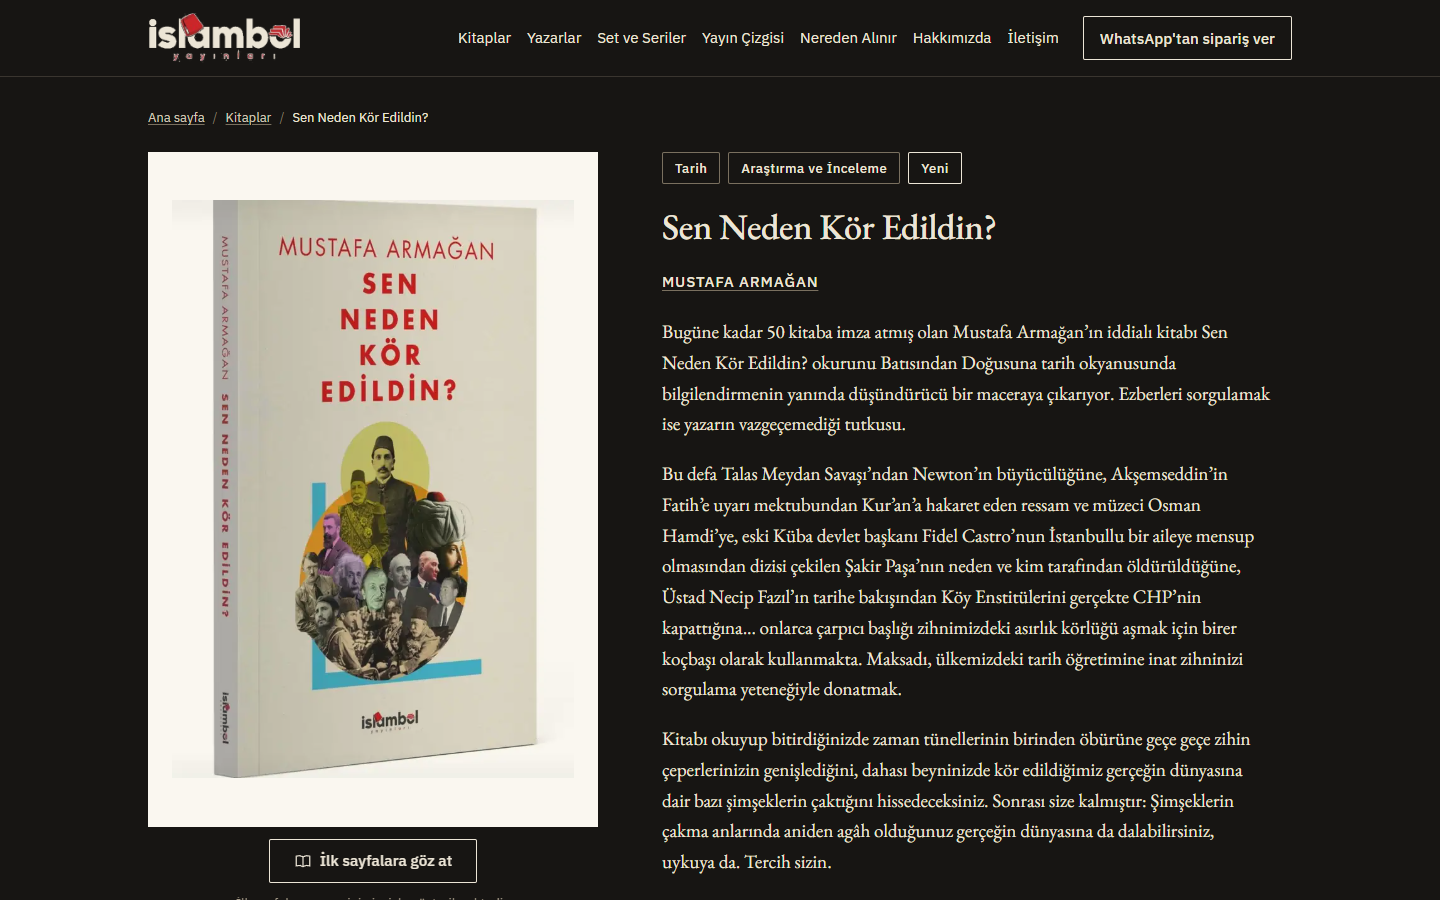
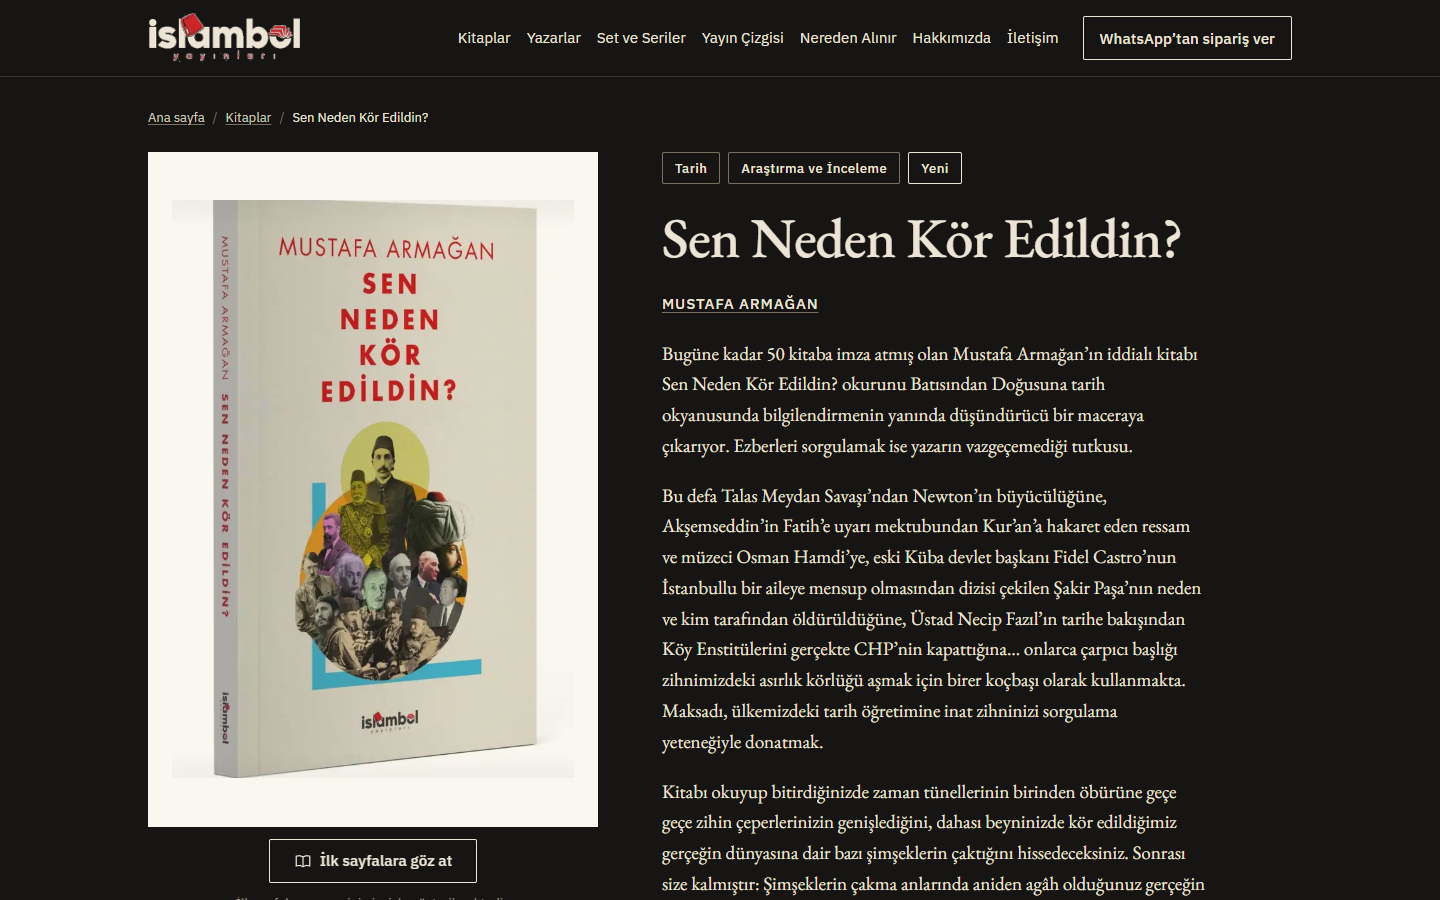
style: tasarım eleştirisi cila turu 2 — modal notu, kapak altı sipariş CTA, hero eser adı, footer ritmi, tipografik kesme/üç nokta; test ve doğrulayıcı normalizasyonu; sentez raporu

Changed region(s): [[0.4375, 0.2178, 0.875, 0.9956], [0.5, 0.0311, 0.8125, 0.0622], [0.3125, 0.0311, 0.4688, 0.0622]]

diff --git a/src/assets/css/global.css b/src/assets/css/global.css
@@ -183,7 +183,7 @@ a:hover { color: var(--c-seal-hover); }
 
 /* ---- Alt bilgi (DESIGN §4.2) ---- */
 .alt {
-  margin-top: var(--space-section);
+  margin-top: 0; /* alt boşluk main'in son çocuğunda (tasarım eleştirisi duzen-3) */
   background: var(--c-paper-sunk);
   border-top: var(--rule-ink);
   padding-block: var(--space-8) var(--space-6);
@@ -226,7 +226,8 @@ a:hover { color: var(--c-seal-hover); }
 
 /* ---- Bölüm başlığı + çizgi (DESIGN §4.7) ---- */
 .bolum { padding-top: var(--space-section); }
-.bolum--son { padding-bottom: var(--space-section); }
+.bolum--son { padding-bottom: 0; }
+main > :last-child { padding-bottom: var(--space-section); } /* footer önü tek ritim: 1× --space-section (duzen-3) */
 .bolum-basligi {
   display: grid;
   grid-template-columns: auto 1fr auto;
@@ -299,6 +300,7 @@ a:hover { color: var(--c-seal-hover); }
 }
 .hero__kunye { margin: var(--space-3) 0 0; }
 .hero__kunye cite { font-style: normal; letter-spacing: var(--tracking-label); }
+.hero__kitap-adi { display: block; margin-top: var(--space-1); font-family: var(--font-serif); font-size: var(--text-lg); line-height: var(--leading-tight); letter-spacing: 0; text-transform: none; color: var(--c-ink); text-wrap: balance; } /* eser adı hero'da serif ve büyük (tasarım eleştirisi tipografi-6) */
 .hero__slogan { margin: 0 0 var(--space-4); padding-bottom: var(--space-3); border-bottom: var(--rule-hair); }
 .hero__baslik {
   font-size: var(--text-2xl);

diff --git a/eleventy.config.js b/eleventy.config.js
@@ -33,6 +33,17 @@ export default function (eleventyConfig) {
   });
   // JSON-LD için: "<" karakterini \u003c yapar; </script> enjeksiyonunu kapatır (Q3 bulgusu H3)
   eleventyConfig.addFilter("guvenliJson", (metin) => String(metin ?? "").replace(/</g, "\\u003c"));
+  // Tipografi dönüşümü (tasarım eleştirisi tipografi-3): metin düğümlerinde harfler arası düz kesme → ’, "..." → …
+  // Attribute'lara (data-ara, href, alt) dokunmaz; <script>/<style>/<pre> içi atlanır.
+  eleventyConfig.addTransform("tipografi", (icerik, ciktiYolu) => {
+    if (!ciktiYolu || !ciktiYolu.endsWith(".html")) return icerik;
+    return icerik.split(/(<script[\s\S]*?<\/script>|<style[\s\S]*?<\/style>|<pre[\s\S]*?<\/pre>)/i).map((parca, i) => {
+      if (i % 2 === 1) return parca;
+      return parca.replace(/>([^<]+)</g, (m, metin) => ">" + metin
+        .replace(/(\p{L})(?:'|&#39;)(\p{L})/gu, "$1’$2")
+        .replace(/\.\.\./g, "…") + "<");
+    }).join("");
+  });
   eleventyConfig.setServerOptions({ port: 8080, showAllHosts: false });
   return {
     dir: { input: "src", output: "dist", includes: "_includes", data: "_data" },

diff --git a/src/assets/css/katalog.css b/src/assets/css/katalog.css
@@ -19,7 +19,7 @@
 
 /* ---- Sayfa iskeleti ---- */
 .katalog,
-.kitap-detay { padding-top: var(--space-6); padding-bottom: var(--space-section); }
+.kitap-detay { padding-top: var(--space-6); padding-bottom: 0; } /* alt boşluk main > :last-child'tan (duzen-3) */
 
 .katalog__ust {
   border-top: var(--rule-ink);
@@ -199,6 +199,7 @@ a.cip:hover, button.cip:not([aria-pressed="true"]):hover { background: var(--c-p
   justify-self: center;
 }
 .kitap-detay__kapak[data-onizleme] { cursor: zoom-in; }
+.kitap-detay__hizli-siparis { justify-self: start; } /* birincil dönüşüm kapağın altında da (tasarım eleştirisi duzen-4) */
 .kitap-detay__kapak picture { display: block; width: 100%; height: 100%; }
 .kitap-detay__kapak img { width: 100%; height: 100%; object-fit: contain; mix-blend-mode: multiply; }
 .kitap-detay__onizle { justify-self: center; gap: var(--space-2); }

diff --git a/tests/e2e/kitap.spec.ts b/tests/e2e/kitap.spec.ts
@@ -7,7 +7,7 @@ import { kitaplar, onizlemeliIdler, ornekKitaplar, yazarlar } from '../yardimci/
 
 const WA = 'wa.me/905059808735';
 const FIYAT = /\d+\s*TL\b/i;
-const normal = (s: string): string => s.replace(/\s+/g, ' ').trim();
+const normal = (s: string): string => (s.replace(/\s+/g, ' ').trim()).replace(/[’‘]/g, "'").replace(/…/g, "...");
 
 test.describe('JSON ile sayfa eşleşmesi', () => {
   test('her kitap kaydının sayfası var ve fazladan kitap sayfası yok', () => {

diff --git a/src/assets/css/flipbook.css b/src/assets/css/flipbook.css
@@ -271,3 +271,6 @@ html.onizleme-acik { overflow: hidden; }
   .onizleme__dugme,
   .onizleme__kapat { transition: none; }
 }
+
+/* Genel p max-width okuma sütunu içindir; modal paragrafları serbest (tasarım eleştirisi duzen-5) */
+.onizleme__not, .onizleme__yukleniyor { max-width: none; }

diff --git a/scripts/qa/dogrula.py b/scripts/qa/dogrula.py
@@ -77,7 +77,7 @@ def norm(deger):
     """HTML entity'lerini çözer, NBSP ve çoklu boşlukları tek boşluğa indirir."""
     if deger is None:
         return ""
-    metin = htmllib.unescape(str(deger)).replace(" ", " ")
+    metin = htmllib.unescape(str(deger)).replace(" ", " ").replace("’", "'").replace("‘", "'").replace("…", "...")  # tipografi dönüşümüne duyarsız
     return re.sub(r"\s+", " ", metin).strip()
 
 

diff --git a/docs/qa/TASARIM-ELESTIRISI.md b/docs/qa/TASARIM-ELESTIRISI.md
@@ -1,0 +1,46 @@
+# Tasarım Eleştirisi — Sentez
+
+Tarih: 12 Ekim 2026 · Yöntem: Workflow `tasarim-elestirisi` (3 bağımsız eleştirmen → her bulguya 2 şüpheci doğrulayıcı → sentez). Sentez aşaması oturum limiti yüzünden Direktör tarafından yazıldı; eleştiri ve doğrulama çıktıları günlükte (`subagents/workflows/wf_660fd7e8-4ea/journal.jsonl`).
+
+## Genel değerlendirme
+
+Üç eleştirmen bağımsız olarak **7/10** verdi (profesyonel yayınevi sitesi çıtası). Ortak izlenim: tasarım sistemi gerçek ve disiplinli (iki aile, akışkan tip ölçeği, tek vurgu, keskin köşeler, arşiv etiketleri, künye tablosu, çalışan sayfa çevirme); şablon izi yok; incelenen Türk rakiplerinin hiçbirinde olmayan bir "belge" hissi var; 320'de taşma yok; karanlık tema tutarlı. Eksikler hiyerarşi ve ritim ayrıntılarındaydı: eser adının kendi sayfasında en küçük h1 olması, bölüm başlıklarının etiket genişliğine göre kayması, bazı kırılmalarda artık ızgara hücreleri, 45–75 karakter bandını aşan satırlar. Bunların hepsi düzeltildi; cila sonrası beklenen puan 8+/10 (yeniden puanlama yapılmadı).
+
+## Uygulanan cila maddeleri (iki doğrulayıcıdan geçti)
+
+| # | Bulgu | Dosya | Değişiklik | Ölçülen sonuç |
+|---|---|---|---|---|
+| 1 | tipografi-1 / marka-2: kitap sayfasında eser adı sitenin en küçük h1'iydi (36px) | `src/assets/css/katalog.css` `.kitap-detay__baslik` | `--text-2xl` + `text-wrap: balance` | 1440'ta 56px |
+| 2 | duzen-1 / tipografi-5: bölüm başlıkları etiket genişliğine göre 25px kayıyordu | `src/assets/css/global.css` `.bolum-basligi` (≥48rem) | `grid-template-columns: 7rem 1fr auto` | h2 sol kenarı 5 bölümde aynı (1024: 164px, 768: 156px) |
+| 3 | duzen-2: 1024'te önizleme şeridi 5+1, 768'de yeni çıkanlar 3+3+2 | `global.css` `.serit`, `.kart-izgara` | `auto-fit, minmax(8.5rem,1fr)`; ≥48rem 4 sütun | 1024'te 6 sütun tek sıra |
+| 4 | tipografi-2: okuma sütunu 76–90 karakter | `src/assets/css/tokens.css` `--max-w-prose` | 38rem → 34rem | 544px (~66–70 karakter, 19px Garamond) |
+| 5 | duzen-5: modal dip notu sola kayıyordu (genel `p { max-width }` sızıntısı) | `src/assets/css/flipbook.css` | `.onizleme__not, .onizleme__yukleniyor { max-width: none }` | not merkezi = viewport merkezi (720/720) |
+| 6 | duzen-4: birincil sipariş CTA'sı 1,75 ekran aşağıdaydı, sol sütun boştu | `src/kitap.njk`, `katalog.css` | kapağın altına ikinci WhatsApp CTA'sı (düşük riskli varyant; kutu taşınmadı) | CTA y=926 (ilk ekranda) |
+| 7 | tipografi-6 / marka-1: hero'da eser adı 13px figcaption'daydı | `src/index.njk`, `global.css` `.hero__kitap-adi` | eser adı serif `--text-lg`, yazar etiket olarak kaldı; H1 iddia başlığı korundu (SITE-HARITASI ile uyum) | 24px EB Garamond |
+| 8 | duzen-3: footer önünde 2× boşluk (224px) | `global.css` `.alt`, `main > :last-child`, `.bolum--son`; `katalog.css` `.kitap-detay` | footer `margin-top: 0`; alt boşluk main'in son çocuğunda tek kaynak | son bölüm altı = footer üstü (112px padding) |
+| 9 | tipografi-3: düz kesme (') ve "..." dizgisi | `eleventy.config.js` `tipografi` transform | metin düğümlerinde harfler arası ' → ’, ... → … (attribute'lar, script/style/pre hariç) | "okumak için…"; `data-ara` dokunulmadı |
+
+## Doğrulanan ama ertelenen
+
+| Bulgu | Neden ertelendi |
+|---|---|
+| tipografi-7: yazar adının üç farklı Plex tedavisi | Öncelik 2/3; `.yazar-adi` yardımcı sınıfı ve 5 dosyada seçici değişikliği gerektiriyor; doğrulayıcı `text-decoration: none` önerisinin bağlantıyı tanınmaz kıldığını ölçtü. Sonraki tur. |
+| marka-1 tam varyantı (88px hero kitap adı, H1 değişimi) | SITE-HARITASI.md ile çelişiyor; ılımlı varyant (madde 7) uygulandı. |
+
+## Çürütülen
+
+| Bulgu | Gerekçe |
+|---|---|
+| marka-2 (çipleri kaldırma kısmı) | Başlık boyutu zaten düzeltildi; kategori çipleri "Yeni" rozetini de taşıyor, kaldırmak bilgi kaybı. |
+
+## Doğrulanamayan (ağ/limit kesintisi; uygulanmadı, aday listesi)
+
+marka-3 (karanlık temada kapak yuvası token'ları), marka-4 (logo kalitesi — vektör bekleniyor, docs/SORULAR.md C.9), marka-5 (bölüm etiketlerinin başlığı tekrar etmesi; "Raf/Kayıt/Dosya/Belge" dili önerisi), marka-6 (baş harf kutuları yerine mini kapaklar), marka-7 (/kitaplar/ listesinde yıla göre gruplama), marka-8 / tipografi-8 (tireli ISBN gösterimi), duzen-6 (1024–1151 aralığında hamburger menü), duzen-7 (768'de hero kapak tepsisi genişliği), duzen-8 (320'de kart başlığı boyutu), tipografi-4 (şerit sütun genişliği ve kart başlığı kademesi).
+
+## Dokunulmaması gerekenler (güçlü yönler)
+
+1. Kâğıt/mürekkep/mühür paleti ve tek vurgu disiplini; keskin köşeli kapak tepsileri.
+2. EB Garamond + IBM Plex Sans ikilisi, akışkan ölçek, ölçülmüş yedek metrikler, `lang="tr"` ile doğru İ/ı.
+3. Künye tablosu ve "Nereden alınır" kutusu: e-ticaret artığı olmadan kurumsal güven.
+4. Sayfa çevirme modalı: çift/tek sayfa, klavye, odak, reduced-motion galerisi, tembel yükleme.
+5. Arşiv etiketi + bölüm başlığı makrosu ve hero kompozisyonu (kapak kahraman).
